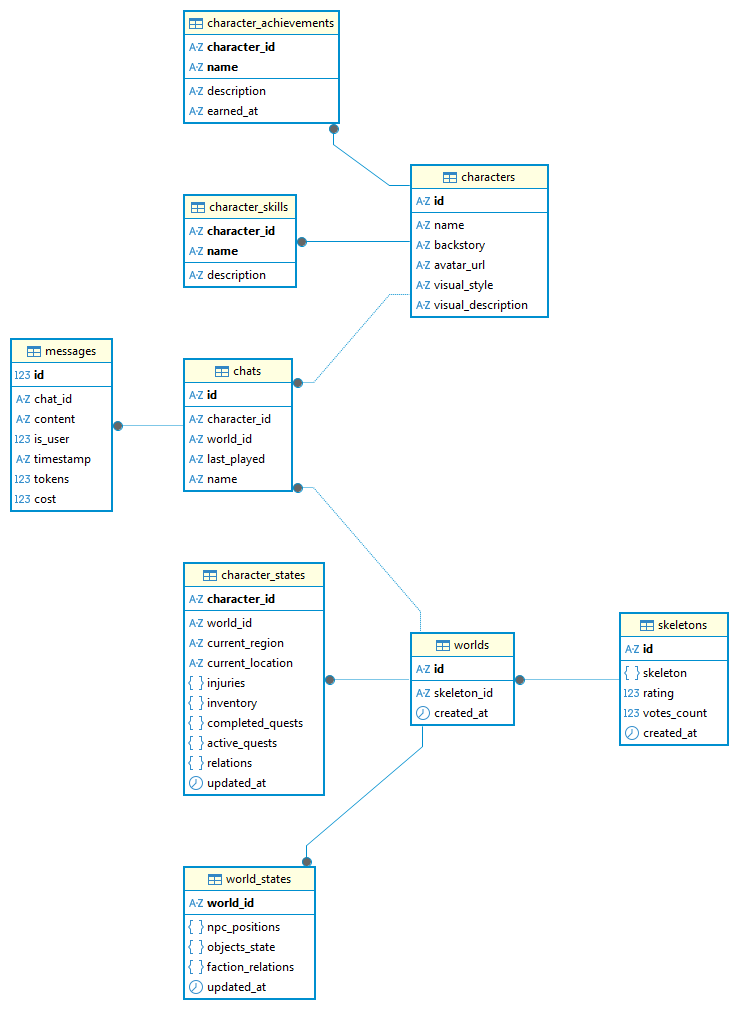
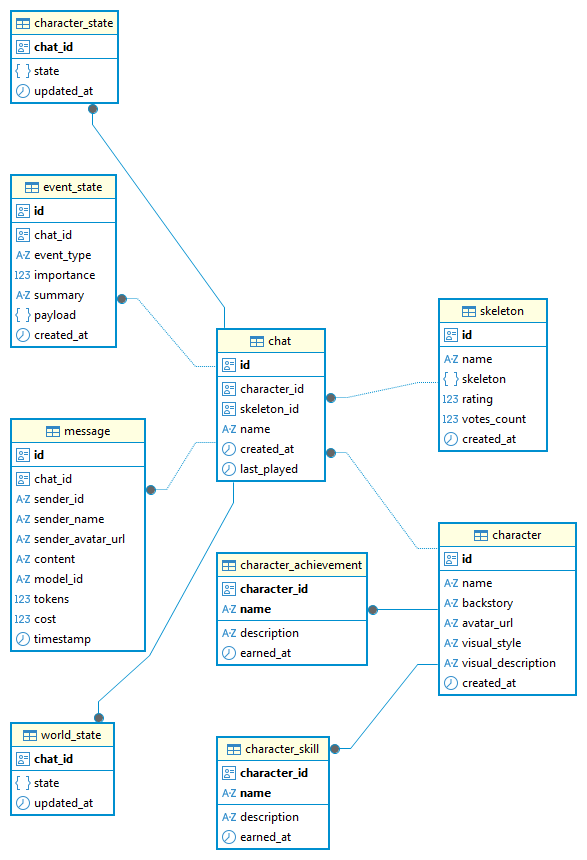
Передалл rout вынесл логику в отедльные сервисы

diff --git a/lib/screens/create_character_screen.dart b/lib/screens/create_character_screen.dart
@@ -198,7 +198,7 @@ class _CreateCharacterScreenState extends State<CreateCharacterScreen> {
 
       if (_needRegenerateWorld) {
         result = await api.generateWorld(characterTemplate: characterData);
-      } else {
+      } else { // пользователь поменял незначительные поля
         result = await api.updateCharacter(characterTemplate: characterData);
         _needRegenerateWorld = true;
       }

diff --git a/lib/services/api_service.dart b/lib/services/api_service.dart
@@ -25,7 +25,7 @@ class ApiService {
     required Map<String, dynamic> characterTemplate,
   }) async {
     final response = await http.post(
-      Uri.parse('$baseUrl//character/update'),
+      Uri.parse('$baseUrl/world/regenerate'),
       headers: {'Content-Type': 'application/json'},
       body: jsonEncode(characterTemplate),
     );

diff --git a/lib/services/database_service.dart b/lib/services/database_service.dart
@@ -126,7 +126,6 @@ class DatabaseService {
          
         // Таблица chats
         await db.execute('''
-       
         CREATE TABLE chats(
         id TEXT PRIMARY KEY,
         character_id TEXT,

diff --git a/backend/core/state_manager.py b/backend/core/state_manager.py
@@ -1,54 +1,61 @@
 import json
 import asyncpg
-from typing import Optional, List
 from core.schemas import CharacterState, WorldState, WorldEvent
 
-class StateManager: 
-    def __init__(self, pool:asyncpg.Pool): 
-        self.pool = pool 
+class StateManager:
+    def __init__(self, pool: asyncpg.Pool):
+        self.pool = pool
 
-# 1. РАБОТА С ПЕРСОНАЖЕМ
-    async def  get_character_state(self, character_id : str) -> CharacterState :
-        async with self.pool.acquire() as conn: 
+    # 1. РАБОТА С ПЕРСОНАЖЕМ
+    async def get_character_state(self, character_id: str) -> CharacterState:
+        async with self.pool.acquire() as conn:
             row = await conn.fetchrow(
-                "Select state FROM character_states WHERE character_id = $1",
-                character_id  
-                )
-            if row: 
+                "SELECT state FROM character_states WHERE character_id = $1",
+                character_id
+            )
+            if row:
                 return CharacterState(**row['state'])
             raise ValueError(f"Character {character_id} not found")
-    
+
     async def save_character_state(self, state: CharacterState):
         async with self.pool.acquire() as conn:
-            await conn.execute( """
+            await conn.execute(
+                """
                 INSERT INTO character_states (character_id, world_id, state, updated_at)
                 VALUES ($1, $2, $3, NOW())
-                ON CONFLICT (character_id) 
+                ON CONFLICT (character_id)
                 DO UPDATE SET state = $3, updated_at = NOW()
-                """, state.character_id, state.world_id, json.dumps(state.model_dump())
-                )
-    # 2. Работа с миром 
+                """,
+                state.character_id,
+                state.world_id,
+                json.dumps(state.model_dump())
+            )
+
+    # 2. РАБОТА С МИРОМ
     async def get_world_state(self, world_id: str) -> WorldState:
         async with self.pool.acquire() as conn:
             row = await conn.fetchrow(
                 "SELECT state FROM world_states WHERE world_id = $1",
-                world_id)
-            if row: 
-                return WorldState(**row['state']) 
-            raise ValueError(f"WorldState {world_id} not found")
-    
-    async def save_world_state(self,state: WorldState): 
-        async with self.pool.acquire() as conn: 
-            await conn.execute(
-            """
-            INSERT INTO world_states(world_id, state, updated_at)
-            VALUES ($1, $2, NOW())
-            ON CONFLICT (world_id) 
-            DO UPDATE SET state = $2, updated_at = NOW()
-            """, state.world_id, json.dumps(state.model_dump())
+                world_id
             )
-    # 3. Работа с событиями 
+            if row:
+                return WorldState(**row['state'])
+            raise ValueError(f"WorldState {world_id} not found")
 
+    async def save_world_state(self, state: WorldState):
+        async with self.pool.acquire() as conn:
+            await conn.execute(
+                """
+                INSERT INTO world_states (world_id, state, updated_at)
+                VALUES ($1, $2, NOW())
+                ON CONFLICT (world_id)
+                DO UPDATE SET state = $2, updated_at = NOW()
+                """,
+                state.world_id,
+                json.dumps(state.model_dump())
+            )
+
+    # 3. РАБОТА С СОБЫТИЯМИ
     async def add_event(self, event: WorldEvent):
         async with self.pool.acquire() as conn:
             await conn.execute(
@@ -56,6 +63,9 @@ class StateManager:
                 INSERT INTO world_events (world_id, character_id, event_type, summary, data, created_at)
                 VALUES ($1, $2, $3, $4, $5, NOW())
                 """,
-                event.world_id, event.character_id, event.event_type,
-                event.summary, json.dumps(event.data)
+                event.world_id,
+                event.character_id,
+                event.event_type,
+                event.summary,
+                json.dumps(event.data)
             )

diff --git a/backend/core/schemas.py b/backend/core/schemas.py
@@ -1,47 +1,99 @@
-from pydantic import BaseModel 
-from typing import List,Dict, Optional
-from datetime import datetime 
-
-# 1. СОСТОЯНИЕ ПЕРСОНАЖА (для RAG и логики)
-
-class CharacterState(BaseModel): 
-    character_id: str 
-    world_id: str 
-    current_region:str     #region_1, region_2...
-    current_location:str  #loc_1_1, loc_2_2...
-
-    # Сюжетно важные вещи 
-
-    injures: List[str] = [] 
-    inventory: List[str] = [] 
-    completed_quests: List[str] = []
-    active_quests: List[str] = []
-    relations: Dict[str, int] = {}  # npc_id → -5..5
-
-    updated_at: datetime = datetime.now()
+from datetime import datetime, timezone
+from typing import Any
+from enum import Enum
+from pydantic import BaseModel, Field
 
 
-# 2 ДИНАМИЧЕСКОЕ СОСТОЯНИЕ МИРА (для RAG)
+
+# ============================================================
+# СОСТОЯНИЕ ПЕРСОНАЖА
+# ============================================================
+class CharacterState(BaseModel):
+    character_id: str
+    chat_id: str
+
+    state: dict[str, Any] = Field(default_factory=dict)
+
+    updated_at: datetime = Field(default_factory=datetime.now(timezone.utc))
+
+# ============================================================
+# СОСТОЯНИЕ МИРА
+# ============================================================
+
 class WorldState(BaseModel):
-    world_id: str
+    chat_id: str
+
+    state: dict[str, Any] = Field(default_factory=dict)
+
+    updated_at: datetime = Field(default_factory=datetime.now(timezone.utc))
+
+
+# ============================================================
+# СОБЫТИЯ (RAG + история)
+# ============================================================
+
+class EventState(BaseModel):
+
+    class EventType(str, Enum):
+        DIALOG = "dialog"
+        COMBAT = "combat"
+        WORLD_CHANGE = "world_change"
+        DISCOVERY = "discovery"
+        ITEM = "item"
+        SYSTEM = "system"
+
+    id: int | None = None
+
+    chat_id: str
+
+    character_id: str | None = None
+
     
-    # Где находятся ключевые NPC (если перемещаются)
-    npc_positions: Dict[str, str] = {}  # npc_id → location_id
 
-    # Состояние важных объектов (разрушен, построен, горит)
-    objects_state: Dict[str, str] = {}  # object_id → состояние
+    importance: int = 5
 
-    # Репутация игрока у фракций
-    player_reputation: Dict[str, int] = {}  # faction_id → -10..10
+    summary: str
+
+    payload: dict[str, Any] = Field(default_factory=dict)
+
+    created_at: datetime = Field(default_factory=datetime.now(timezone.utc))
+
+
+class ChatRequest(BaseModel):
+    chat_id: str
+    content: str
+
+
+class ChatResponse(BaseModel):
+    answers: list[MessageResponse]
     
-    updated_at: datetime = datetime.now()
+
+class MessageResponse(BaseModel):
+    sender_id: str
+    sender_name: str
+    sender_avatar_url: str | None = None
+    content: str
+    timestamp: datetime
 
 
-class WorldEvent(BaseModel):
-    id: Optional[int]
-    world_id: str
-    character_id: Optional[str]
-    event_type: str  # "combat", "dialog", "discovery", "quest"
-    summary: str     # краткое описание для RAG
-    data: Dict       # полные детали
-    created_at: datetime = datetime.now()
+
+class CharacterSchema(BaseModel):
+    id: str
+    name: str
+    backstory: str
+    avatar_url: str | None = None
+    visual_style: str | None = None
+    visual_description: str
+    skills: list[dict]
+    achievements: list[dict]
+
+
+class CreateWorldRequest(BaseModel):
+    character: CharacterSchema
+
+
+class CreateWorldResponse(BaseModel):
+    chat_id: str
+    character: CharacterSchema
+
+

diff --git a/backend/app/api.py b/backend/app/api.py
@@ -1,57 +1,33 @@
-from datetime import datetime
+from datetime import datetime, timezone
 from services.llm.story_generator.world_gen import WorldGenerator
 from core.postgredatabase import *
-
-'''@router.get("/world/{world_id}/characters")
-async def get_characters(world_id: str):
-    # Загружаем story.json (потом из БД)
-    with open("story.json", "r", encoding="utf-8") as f:
-        data = json.load(f)
-    return {"characters": data.get("characters", [])}'''
-
-
-'''@router.post("/world/{world_id}/character/generate")
-async def generate_character(
-    character_template: dict,  # ← JSON от Flutter
-    background_tasks: BackgroundTasks
-):
-    world = await db.get_world(world_id)
-    
-    generator = CharacterGenerator()
-    new_character = await generator.generate_for_world(
-        world_skeleton=world['skeleton'],
-        user_character_json=character_template
-    )
-    
-    return new_character'''
+from fastapi import APIRouter
+from app.services.game_orchestrator import GameOrchestrator
+from app.models.schemas import (
+    CreateWorldRequest,
+    CreateWorldResponse,
+    RegenerateWorldRequest,
+    ChatRequest,
+    ChatResponse,
+)
 
 
-@router.post("")
 
+router = APIRouter()
+world_service = WorldService()
+orchestrator = GameOrchestrator()
 
-@router.post("/create_world")
-async def create_world_id(
-     character_data: dict, 
-):
-    world_id=DateTime.now().microsecondsSinceEpoch.toString()
-    try:
-        gen=WorldGenerator()
-        world_skelet=await gen(character_data)   # В будущем сделать цикл из агентов чтобы проверять мир
-        character= world_skelet.get("main_character")
-        db=save_world
-        await db.save_world(world_id,world_skelet )
-        return {
-            "world_id": world_id,
-            "character": character
-        }
-    except: 
-        print("Ошибка в '/create_world'")
+# Создание skelet
+@router.post("/world/create", response_model=CreateWorldResponse)
+async def create_world(request: CreateWorldRequest) -> CreateWorldResponse:
+    return await world_service.create_world(request)
 
-@router.put("/character/update")
-async def update_character(world_id:str, character_data: dict):
-    world_skelet=await get_world(world_id) # Метод из postgresdatabase получает скелет мира из db
-    if not world_skeleton:
-        raise HTTPException(404, "World not found")
-    world_skelet["main_character"].update(character_data)
-    await save_world(world_id, world_skelet)    # Метод из postgresdatabase сохраняет в db
-    
+# нужен когда пользователь поменял незначительные поля  и чтобы не переделывать весь скелет
+@router.put("/skelet/update", response_model=CreateWorldResponse)
+async def regenerate_world(request: RegenerateWorldRequest,) -> CreateWorldResponse:
+    return await world_service.regenerate(request)
+
+# главный роут ответ  ллм котоырй летит в чат потом
+@router.post("/chat", response_model=ChatResponse)
+async def chat(request: ChatRequest) -> ChatResponse:
+    return await orchestrator.process_turn(request)

diff --git a/backend/core/postgredatabase.py b/backend/core/postgredatabase.py
@@ -16,7 +16,7 @@ async def save_world(world_id: str, skeleton: dict):
     skeleton_json=json.dumps(skeleton)
     try:
         await conn.execute("""
-            INSERT INTO worlds (world_id, skeleton) 
+            INSERT INTO skeleton (world_id, skelet) 
             VALUES ($1, $2) 
             ON CONFLICT (world_id) 
             DO UPDATE SET skeleton = EXCLUDED.skeleton
@@ -29,7 +29,7 @@ async def get_world(world_id: str) -> dict:
     conn = await get_db()
     try:
         row = await conn.fetchrow(
-            "SELECT skeleton FROM worlds WHERE world_id = $1",
+            "SELECT skeleton FROM s WHERE world_id = $1",
             world_id
         )
         return dict(row['skeleton']) if row else None
